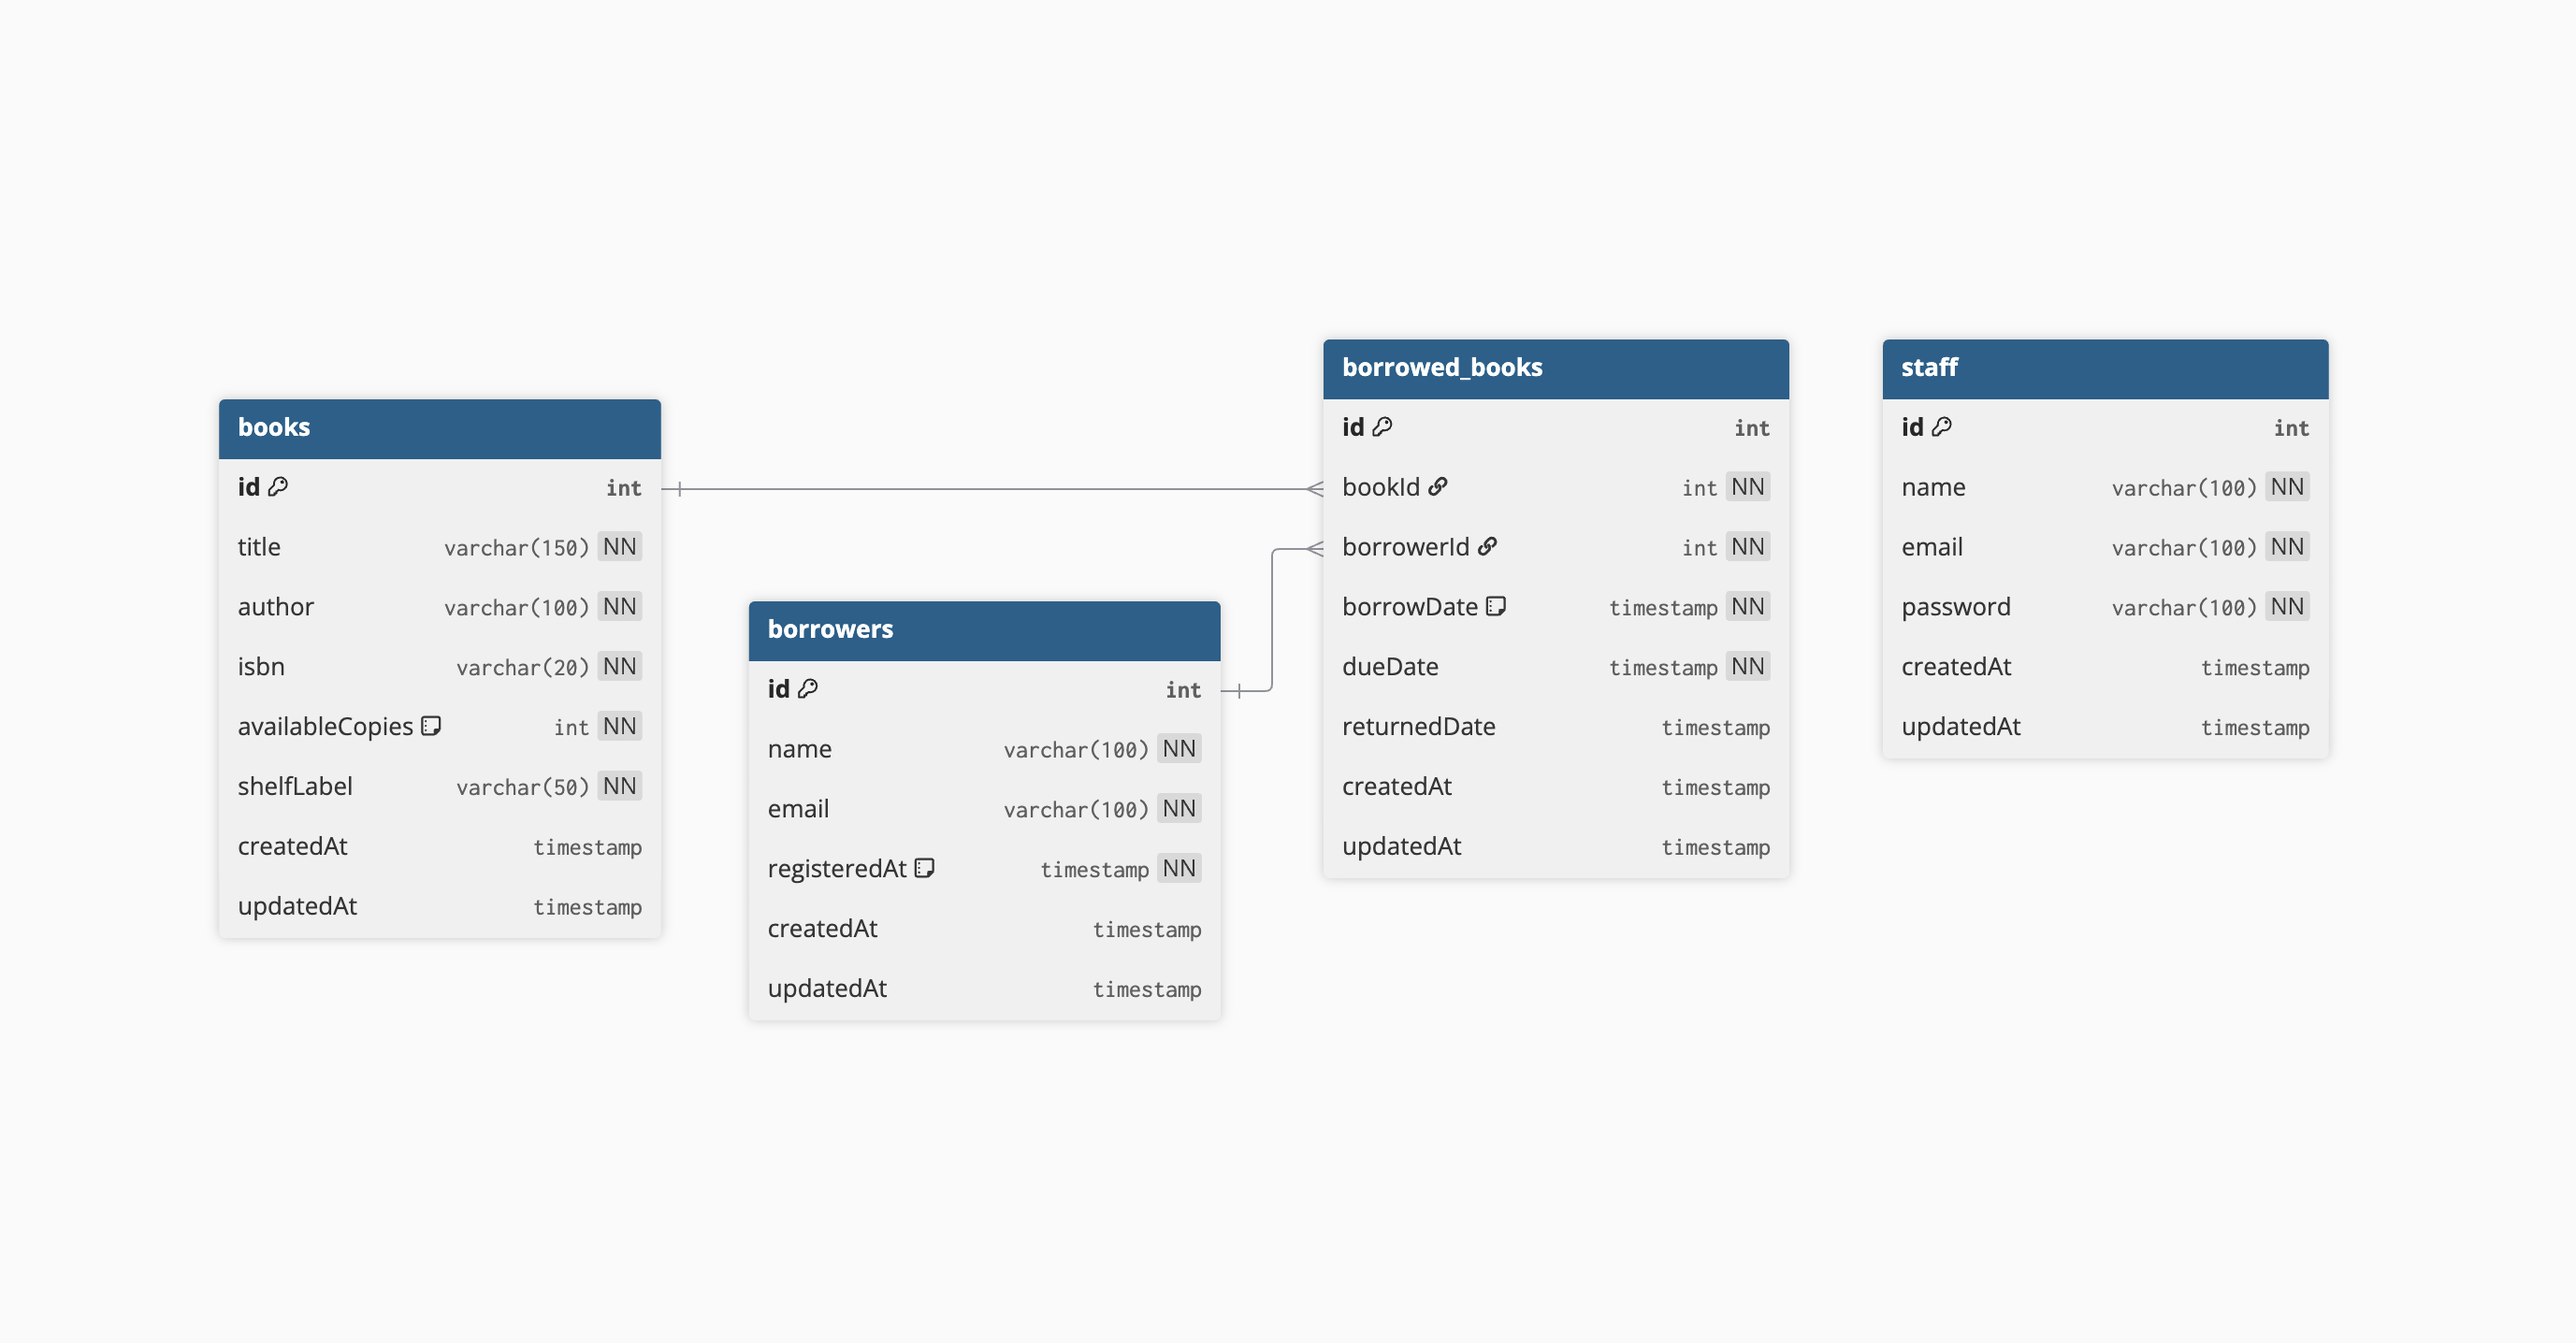
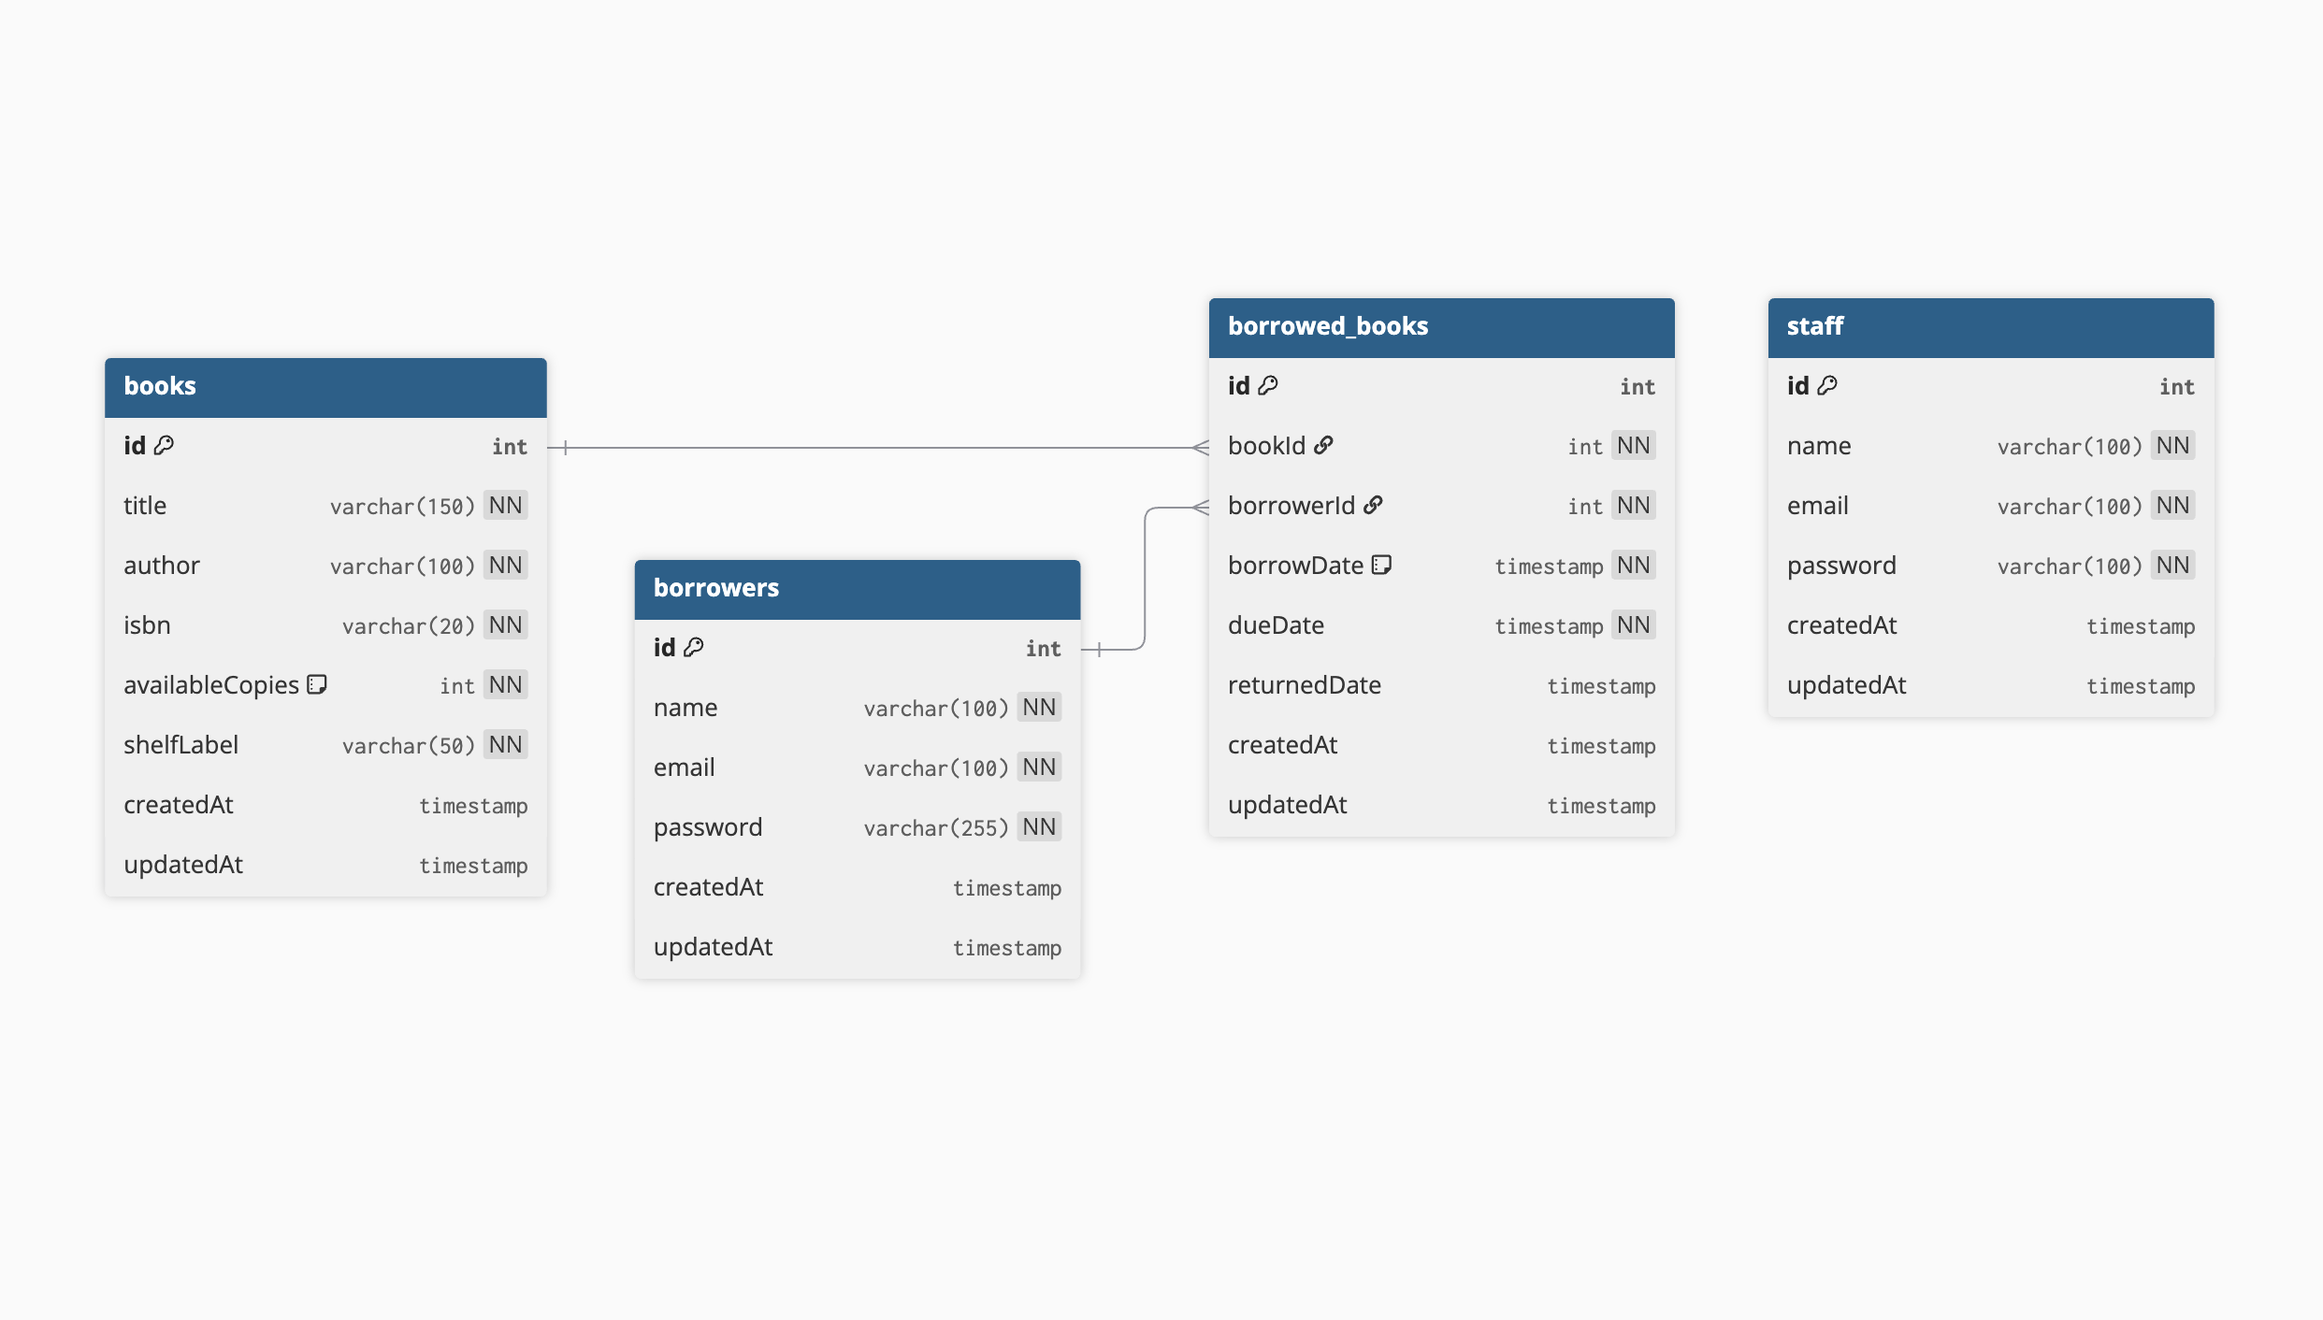
feat: support borrower password

diff --git a/src/models/Borrower.ts b/src/models/Borrower.ts
@@ -16,7 +16,7 @@ export default class Borrower extends Model {
   public id!: number;
   public name!: string;
   public email!: string;
-  public registeredAt!: Date;
+  public password!: string;
 
   public readonly createdAt!: Date;
   public readonly updatedAt!: Date;
@@ -48,13 +48,13 @@ Borrower.init(
         },
       },
     },
-    registeredAt: {
-      type: DataTypes.DATE,
+    password:{
+      type: DataTypes.STRING,
       allowNull: false,
-      defaultValue: DataTypes.NOW,
-      validate: {
-        isDate: true,
-      },
+      validate:{
+        notEmpty: true,
+        len: [4,16]
+      }
     },
   },
   {
